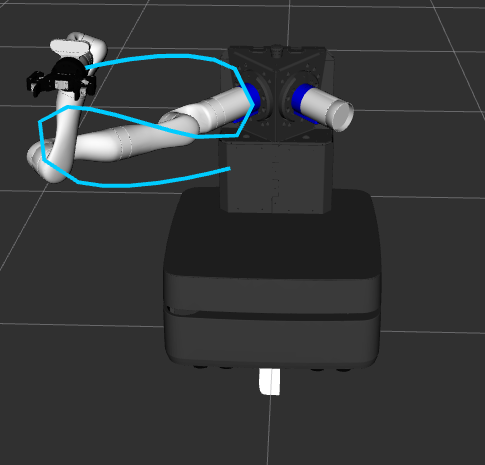
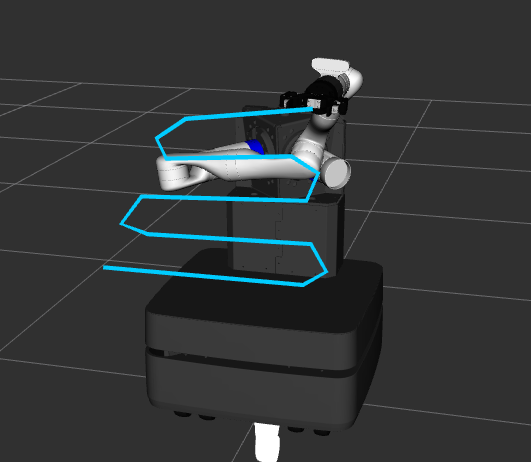
image update

diff --git a/README.md b/README.md
@@ -16,6 +16,8 @@ ros2 run cartesian_planner raster_scanner
 
 The node exposes a raster-scan service and executes the scan through `ArmControl`.
 
+![Raster scan path](images/RasterPath.png)
+
 At a high level it:
 
 1. receives four corner poses
